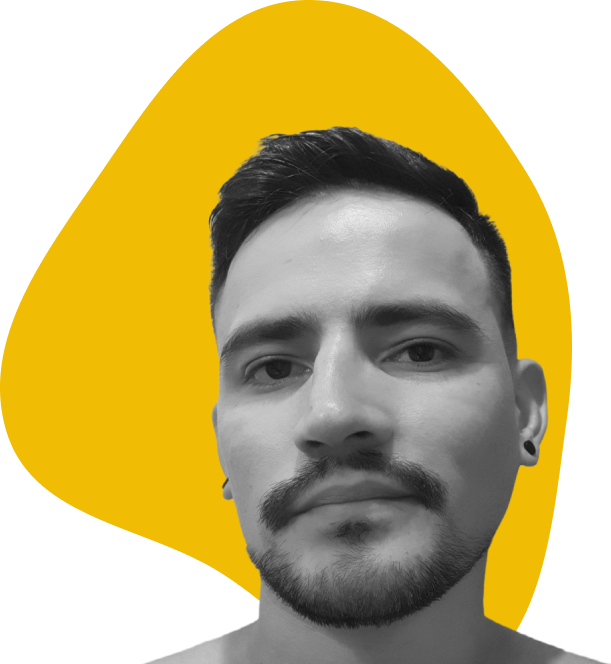
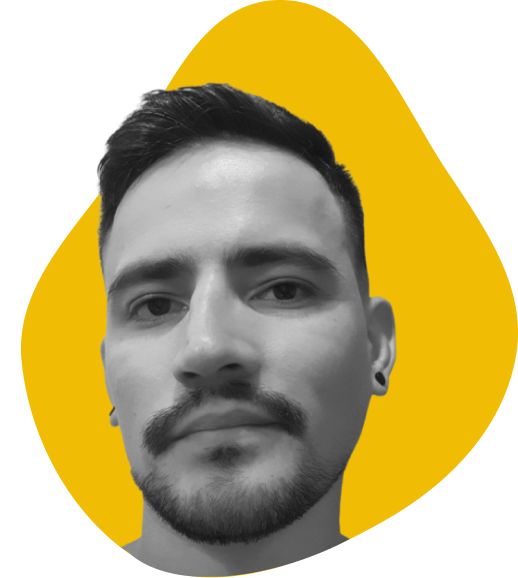
fix: adjust divs hero

diff --git a/assets/css/styles.css b/assets/css/styles.css
@@ -86,23 +86,38 @@ a:hover {
 
 .home{
   display: flex;
-    background: url(../images/hero.png) no-repeat right;
-    background-size:555px;
-    background-position-y: 100%;
     background-color: var(--main-bg-color);
     color: var(--main-text-color);
     font-family: 'Fira Code', monospace sans-serif;
-    min-height: 100vh;
 }
 
 .home .max-width{
   margin:160px 0 auto 40px;
+  display:flex;
+  width:100%;
+  justify-content: center;
+  
+}
+.hero img{
+  width: 100%;
+  max-width: 500px;
+  align-self: flex-end;
+  
+}
+.hero{
+  display:flex;
+  width: 60%;
+  justify-content: right;
+}
+.home .home-content{
+
+width:120%;
 }
 .home .home-content .text-1{
   font-size: 48px;
 }
 .home .home-content .text-2{
-  font-size:6rem;
+  font-size:6.5rem;
   font-weight: 500;
   margin-left: -3px;
 }

diff --git a/index.html b/index.html
@@ -32,12 +32,16 @@
       <div class="home-content">
         <div class="text-1"> Olá, meu nome é</div>
         <div class="text-2"> Allan Alvarenga</div>
-        <div class="text-3"> eu sou <span class="typing">Desenvolvedor front-end</span>. </div>
+        <div class="text-3"> eu sou <span class="typing">Desenvolvedor front-end</span>.
+        </div>
         <div class="icons">
           <i class="fa-brands fa-github fa-3x"></i>
           <i class="fa-brands fa-linkedin-in fa-3x"></i>
           <i class="fa-brands fa-twitter fa-3x"></i>
         </div>
+      </div>
+      <div class="hero">
+        <img src="./assets/images/hero.png" alt="">
       </div>
     </div>
   </section>
